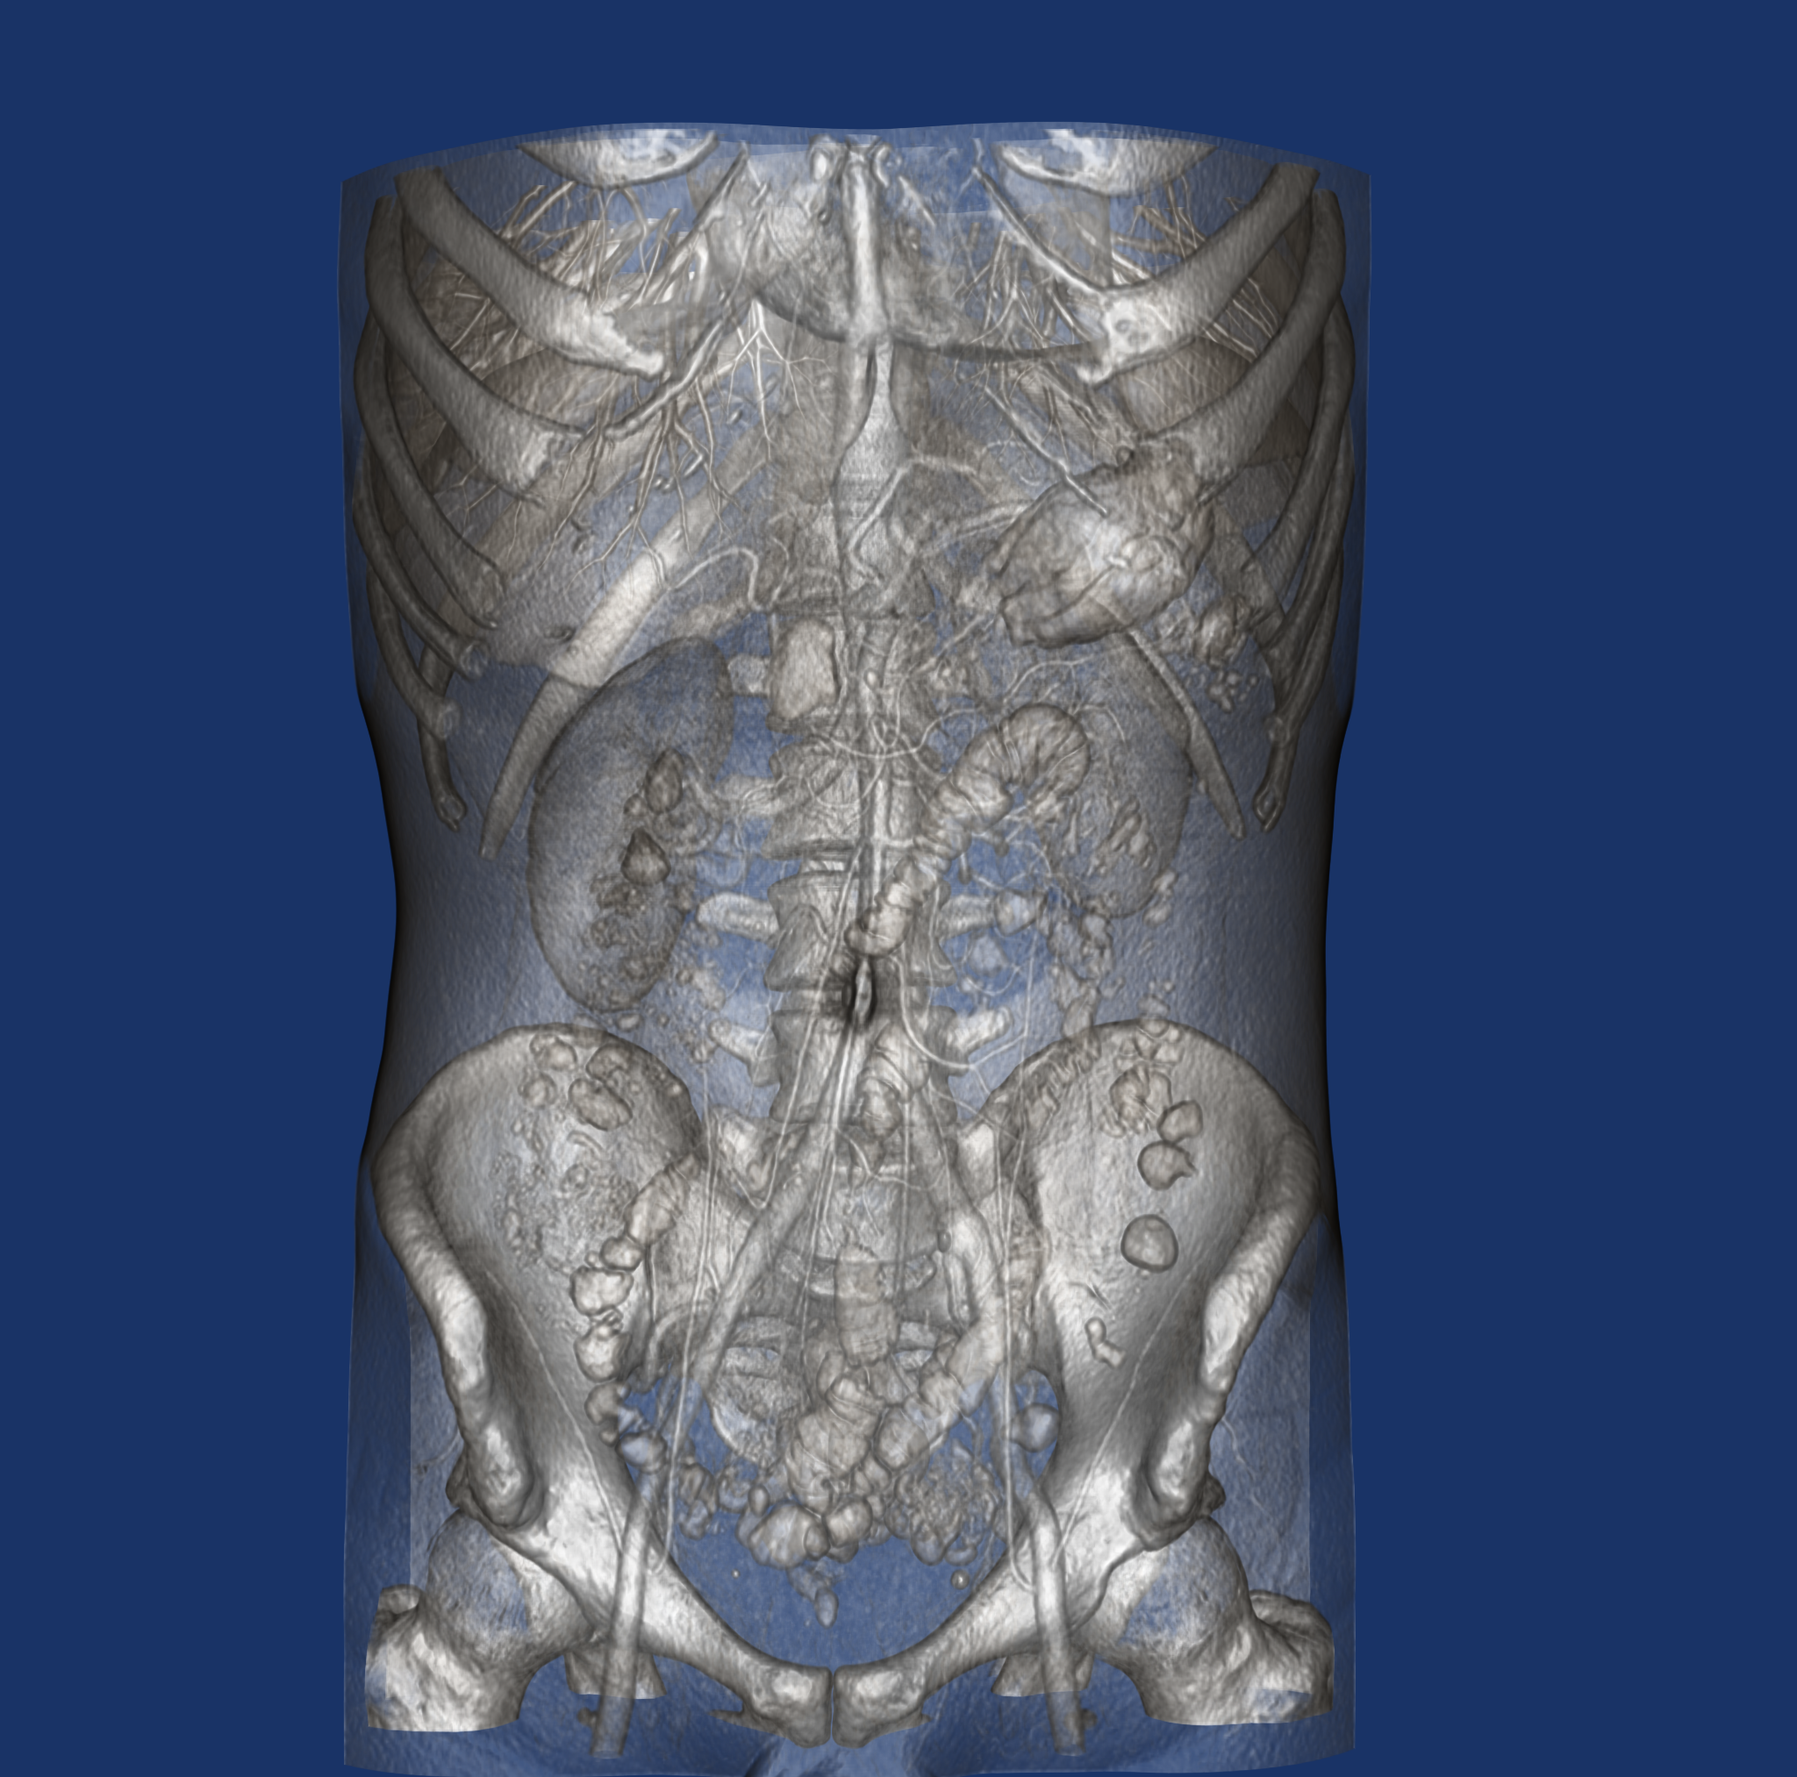
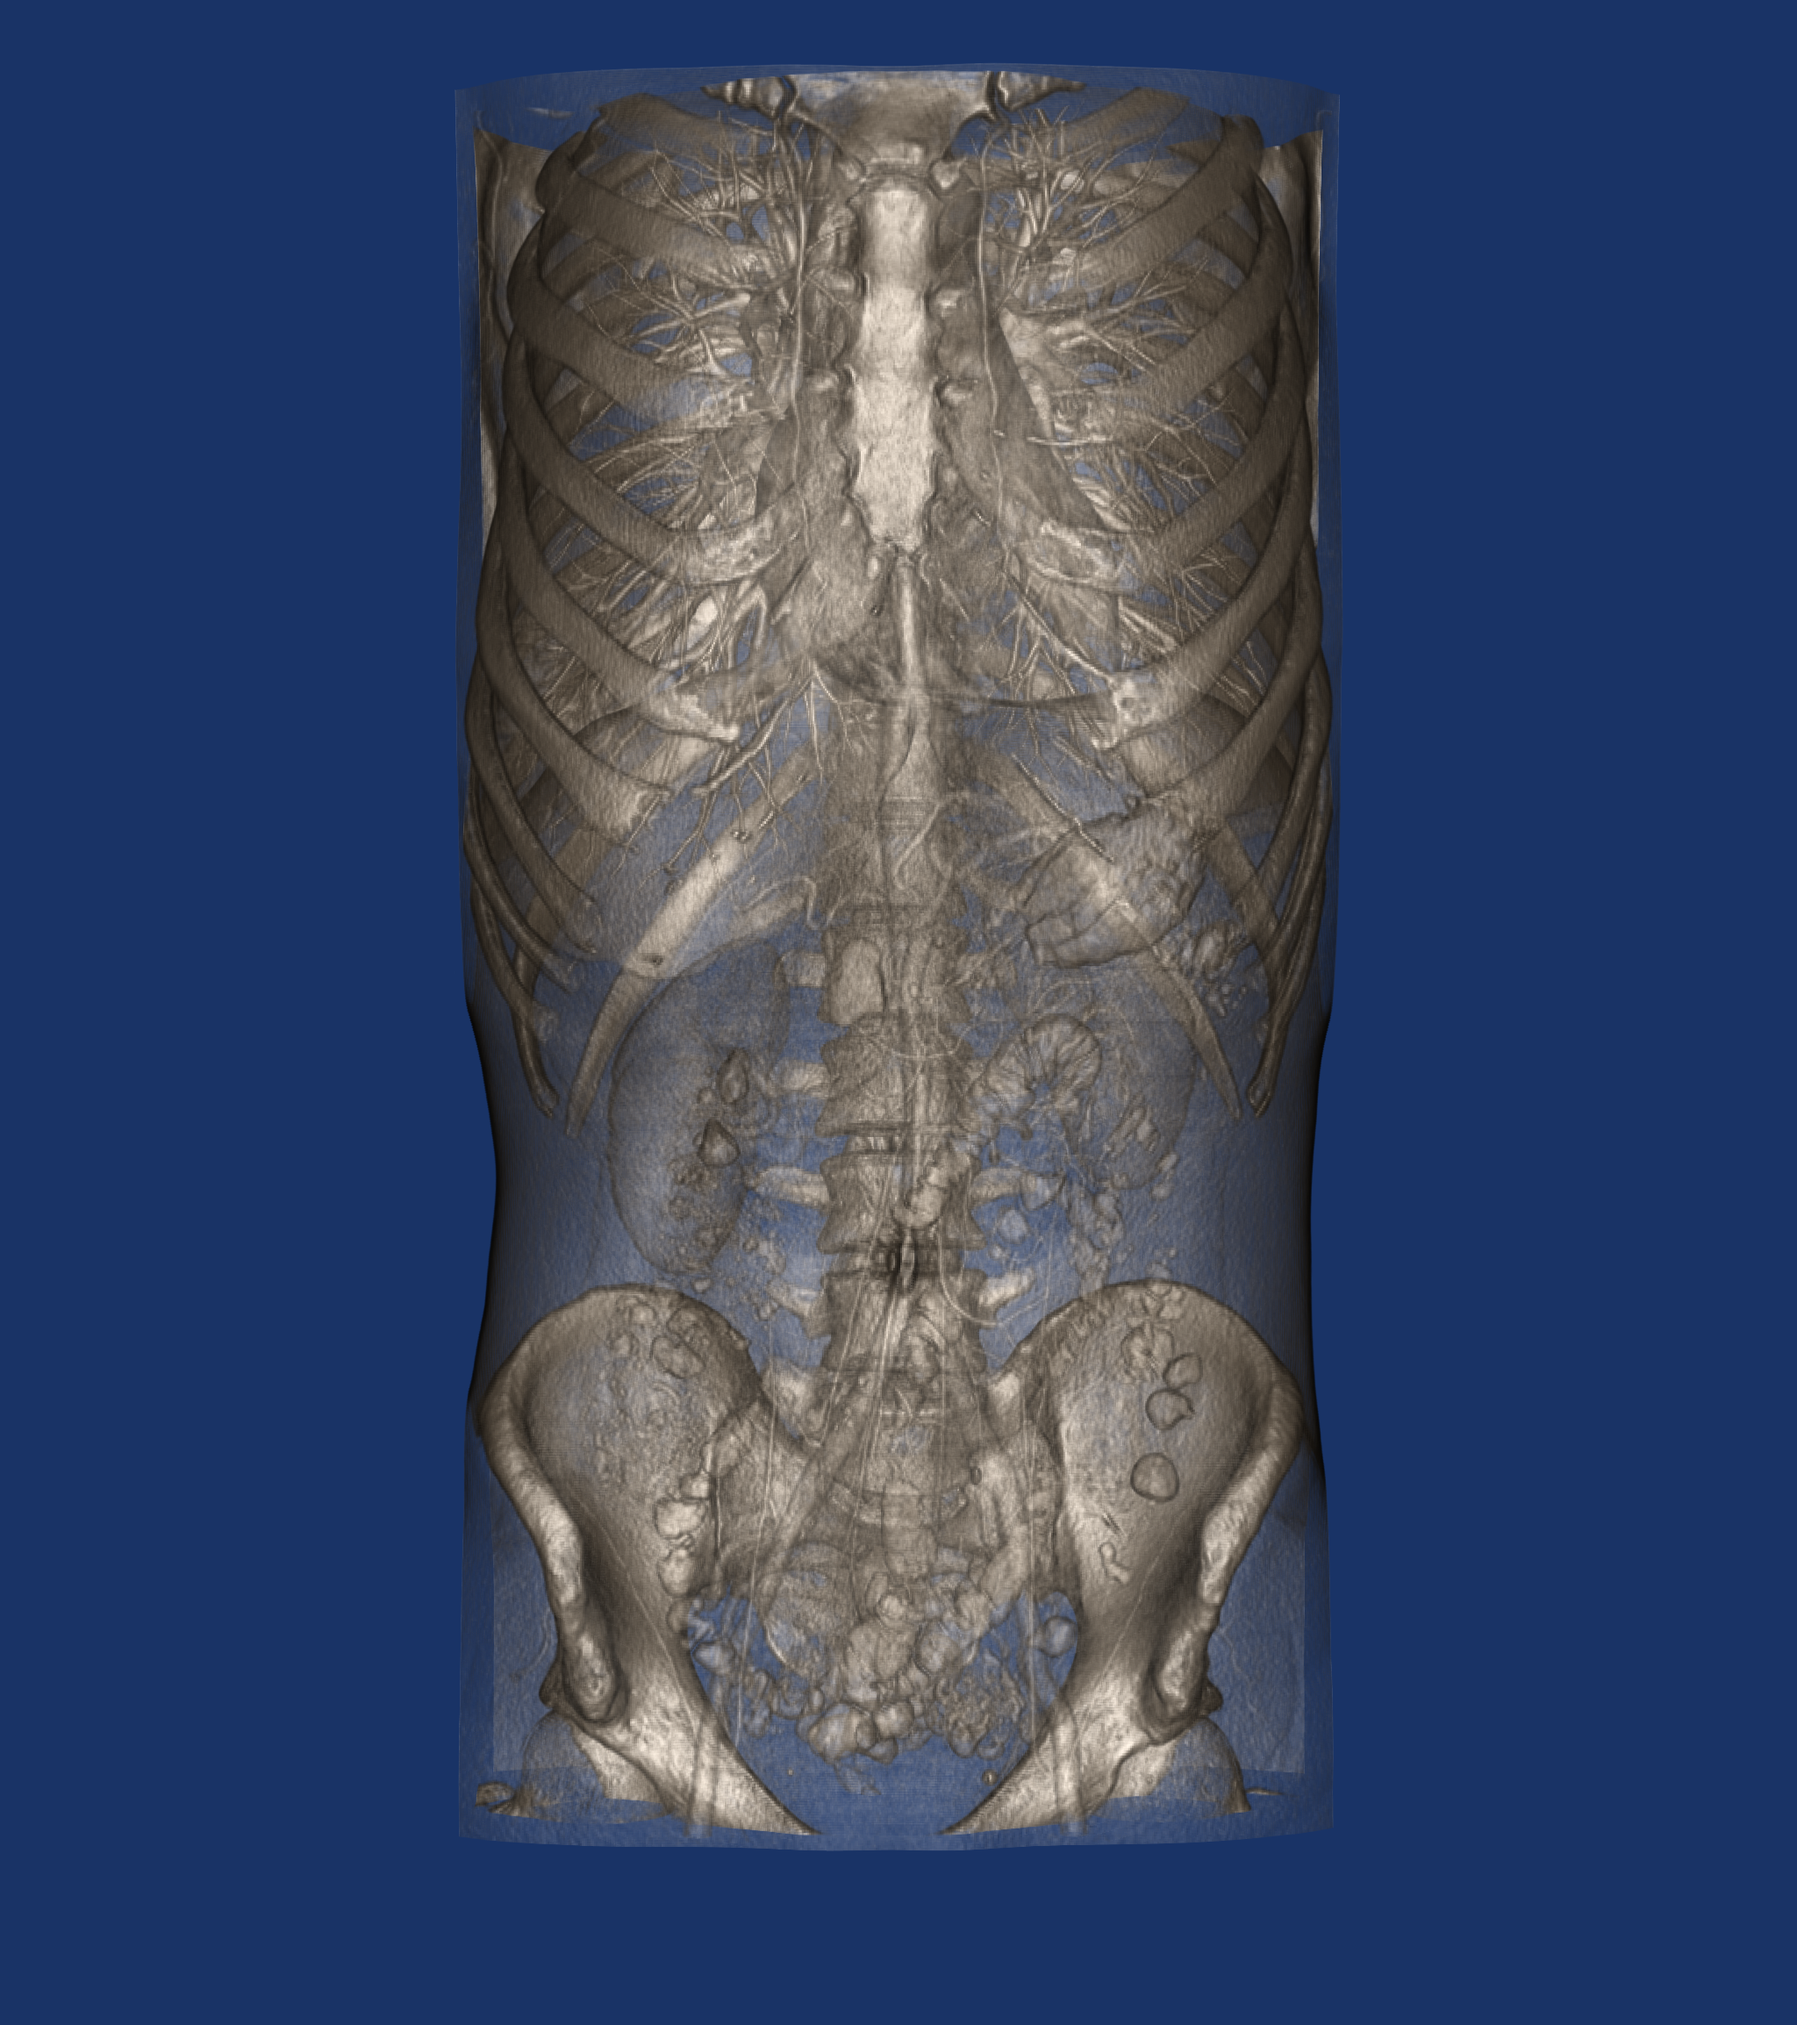
Added average ip blend mode

diff --git a/results.tex b/results.tex
@@ -40,23 +40,39 @@ The vtkGPURayCastMapper supports most data types such as short, int, float, and 
 \label{fig:clipping}
 \end{figure}
 
-\subsubsection{Blending Modes *Sankhesh to add new blending mode}
-The mapper supports composite blending, minimum intensity projection, maximum intensity projection, and additive blending. Each of these blending modes are useful for a particular use-case in medical computing. The most common one which is also the default is the composite blending mode. See Figure~\ref{fig:blendingmodes} for an example of composite blending, maximum intensity projection, and additive blending on the same data.
+\subsubsection{Blending Modes}
+The mapper supports composite blending, minimum intensity projection, maximum
+intensity projection, additive intensity and average intensity blending. Each of
+these blending modes are useful for a particular use-case in medical computing.
+The most common one which is also the default is the composite blending mode.
+See Figure~\ref{fig:blendingmodes} for an example of the different blend modes
+on the same data.
 
-\begin{figure*}
-\centering
-\begin{subfigure}{.6\columnwidth}
+\begin{figure}[htbp]
+  \centering
+  \begin{subfigure}{.5\columnwidth}
     \includegraphics[width=\columnwidth]{TorsoBlendingComposite.png}
-\end{subfigure}
-\begin{subfigure}{.6\columnwidth}   
-    \includegraphics[width=\columnwidth]{TorsoBlendingAdditive.png}
-\end{subfigure} 
-\begin{subfigure}{.6\columnwidth}
+    \caption{Composite}
+    \label{fig:blendcomposite}
+  \end{subfigure}%
+  \begin{subfigure}{.5\columnwidth}
     \includegraphics[width=\columnwidth]{TorsoBlendingMIP.png}
-\end{subfigure}
-\caption{Rendering with and without gradient opacity transfer function.}
-\label{fig:blendingmodes}
-\end{figure*}
+    \caption{Maximum Intensity}
+    \label{fig:blendmax}
+  \end{subfigure}
+  \begin{subfigure}{.5\columnwidth}   
+    \includegraphics[width=\columnwidth]{TorsoBlendingAdditive.png}
+    \caption{Additive}
+    \label{fig:blendadditive}
+  \end{subfigure}%
+  \begin{subfigure}{.5\columnwidth}
+    \includegraphics[width=\columnwidth]{TorsoBlendingAverage.png}
+    \caption{Average Intensity}
+    \label{fig:blendaverage}
+  \end{subfigure}
+  \caption{Blend modes supported by the \texttt{vtkGPUVolumeRayCastMapper}}
+  \label{fig:blendingmodes}
+\end{figure}
 
 \subsubsection{Masking}
 Both binary and label masks are supported. With binary masks, the value in the masking volume indicates visibility of the voxel in the data volume. When a label map is in use, the value in the label map is used to select different rendering parameters for that sample.  See Figure 5 for an example of label data masks.
@@ -64,20 +80,18 @@ Both binary and label masks are supported. With binary masks, the value in the m
 \subsubsection{Opacity Modulated by Gradient Magnitude}
 A transfer function mapping the magnitude of the gradient to an opacity modulation value can be used to essentially perform edge detection (de-emphasize homogenous regions) during rendering. See ~\ref{fig:gradient} for an example of rendering with and without the use of a gradient opacity transfer function.
 
-\begin{figure*}
-\centering
-   \begin{subfigure}[b]{0.5\textwidth}
-   \includegraphics[width=1\linewidth]{TorsoGradient.png}
-   \caption{}
-   \label{fig:Ng1} 
-\end{subfigure}
-
-\begin{subfigure}[b]{0.5\textwidth}
-   \includegraphics[width=1\linewidth]{TorsoNoGradient.png}
-   \caption{}
-   \label{fig:Ng2}
-\end{subfigure}
-
-\caption{Rendering with and without gradient opacity transfer function.}
-\label{fig:gradient}
-\end{figure*}
+\begin{figure}[ht]
+  \centering
+   \begin{subfigure}[b]{0.5\columnwidth}
+     \includegraphics[width=\columnwidth]{TorsoNoGradient.png}
+     \caption{Without gradient opacity function}
+     \label{fig:Ng1} 
+   \end{subfigure}%
+  \begin{subfigure}[b]{0.5\columnwidth}
+    \includegraphics[width=\columnwidth]{TorsoGradient.png}
+    \caption{With gradient opacity function}
+    \label{fig:Ng2}
+  \end{subfigure}
+  \caption{Gradient magnitude based opacity modulation}
+  \label{fig:gradient}
+\end{figure}
